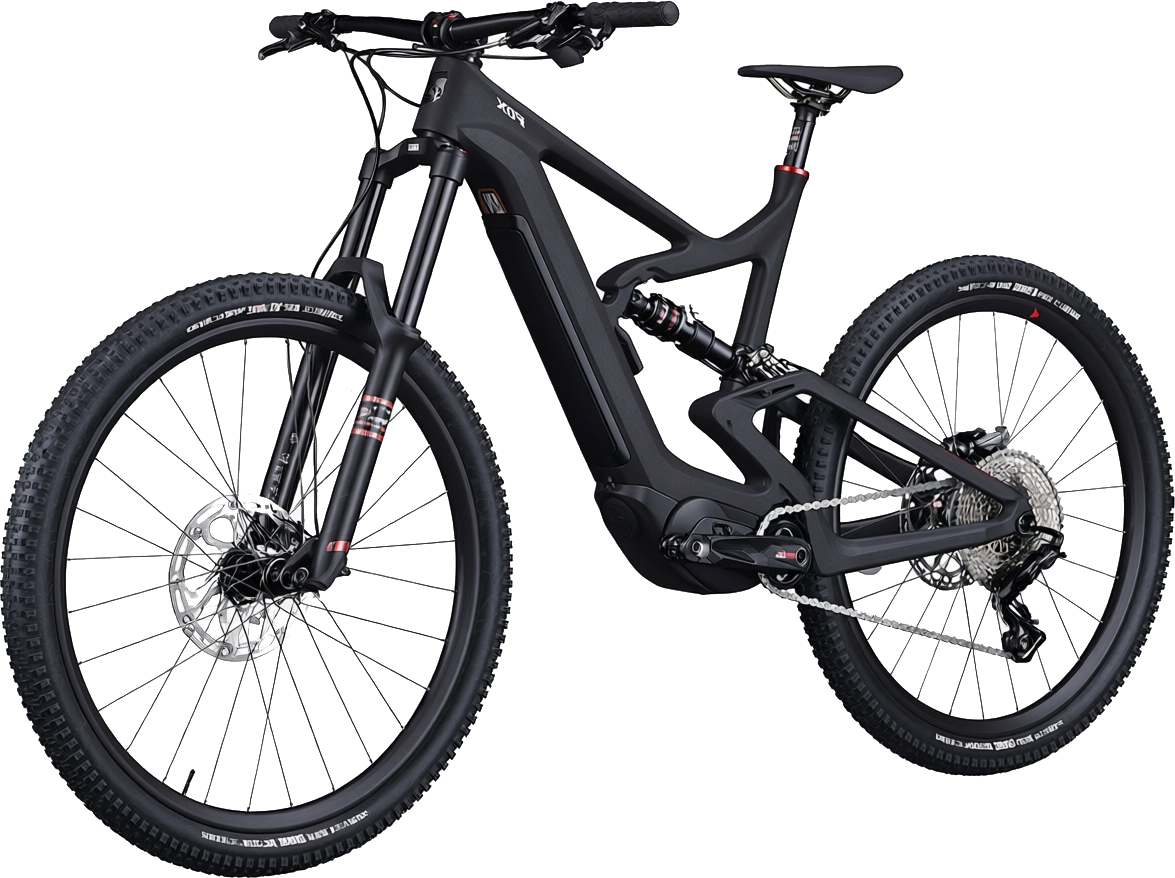
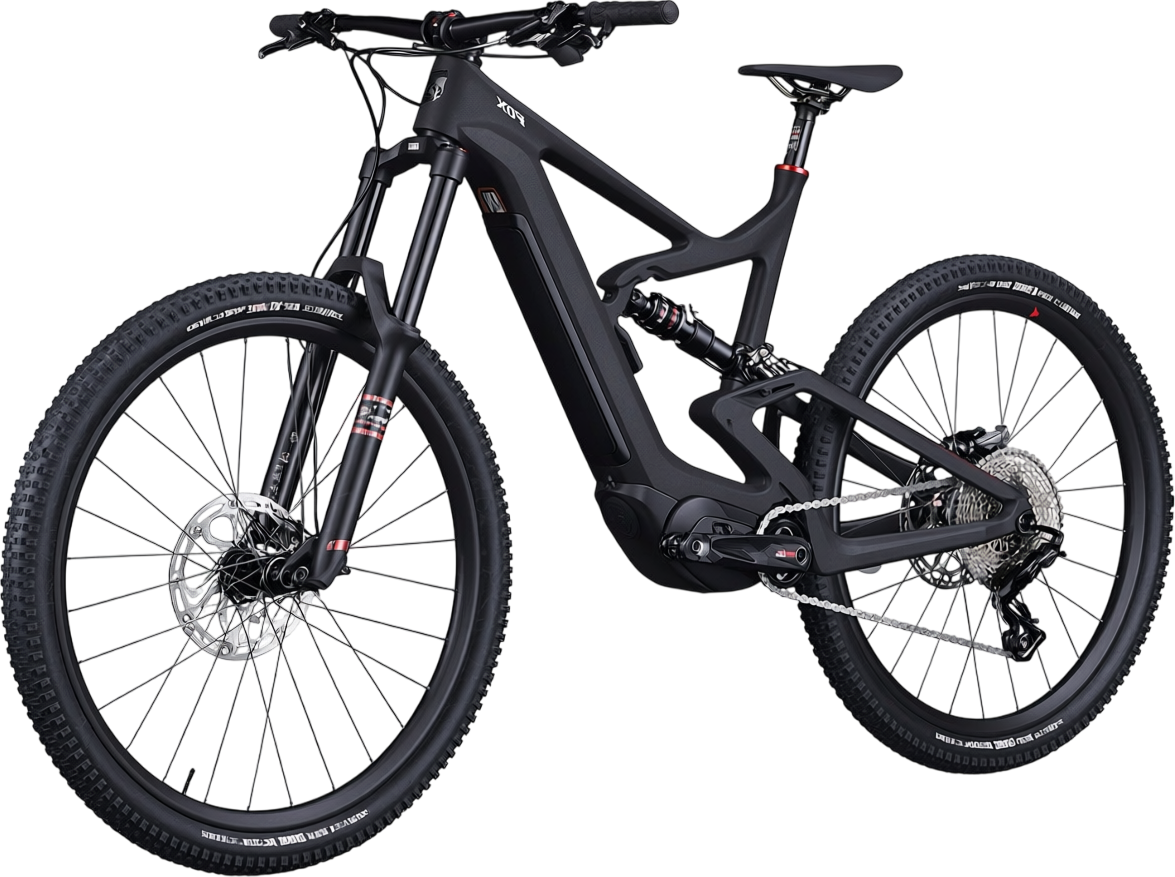
Use provided clean-alpha bike cutout for hero visual

diff --git a/components/home/hero.tsx b/components/home/hero.tsx
@@ -53,7 +53,7 @@ export function Hero() {
           src="/images/hero-bike.png"
           alt=""
           width={1175}
-          height={878}
+          height={877}
           priority
           className="h-auto w-full drop-shadow-[0_50px_70px_rgba(0,0,0,0.55)]"
         />
